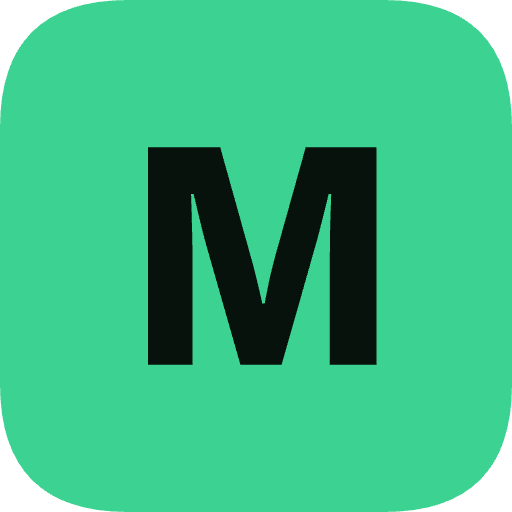
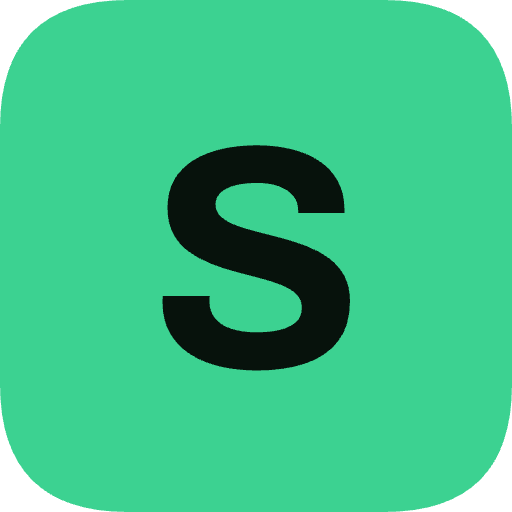
Rename the company to Synecura
Brand strings, the two-tone wordmark, the structured data and the whole icon
set. The lockup keeps its shape: Syne in ink, cura in brand green, one word
with no separator, plus the mint node, mirroring the old More and Chain split.
The footer follows as SYNE and CURA.

The monogram changes letter, so the icons are regenerated from the real
Archivo face and the SVG carries a freshly traced S. Tracing the boundary and
simplifying it gives 100 points from 2240, which renders identically to the
PNG and still needs no font present.

One artifact fixed while regenerating: the monogram canvas carried the
wordmark's -0.04em letter-spacing, and letter-spacing after a single centred
glyph shifts it by half that amount. The old M was 13px off centre in a 1024
box for exactly this reason. Spacing is now zero for the monogram, and the
traced S sits with its bounding box centred on 512.

Deliberately not renamed: the repository, the local directory and the Pages
URL, since changing those changes the live address. The reference prototype
filenames keep their names too, because those files exist under them.

Changed region(s): [[0.2812, 0.2812, 0.75, 0.75]]

diff --git a/index.html b/index.html
@@ -3,14 +3,14 @@
 <head>
 <meta charset="utf-8">
 <meta name="viewport" content="width=device-width, initial-scale=1, viewport-fit=cover">
-<title>MoreChain, systems that pay for themselves</title>
-<meta name="description" content="MoreChain builds custom operational systems for owner-run businesses and takes its fee out of the verified gain. Every system is built for one operation alone.">
+<title>Synecura, systems that pay for themselves</title>
+<meta name="description" content="Synecura builds custom operational systems for owner-run businesses and takes its fee out of the verified gain. Every system is built for one operation alone.">
 <link rel="canonical" href="https://liav-chanoch.github.io/morechain/">
 <meta name="color-scheme" content="dark">
 <meta name="theme-color" content="#070B0E">
 <meta property="og:type" content="website">
-<meta property="og:site_name" content="MoreChain">
-<meta property="og:title" content="MoreChain, systems that pay for themselves">
+<meta property="og:site_name" content="Synecura">
+<meta property="og:title" content="Synecura, systems that pay for themselves">
 <meta property="og:description" content="Every operation has headroom. We find where it sits, build the system that captures it, and take our fee out of the gain.">
 <meta property="og:url" content="https://liav-chanoch.github.io/morechain/">
 <meta property="og:image" content="https://liav-chanoch.github.io/morechain/assets/og.png">
@@ -653,8 +653,8 @@ h2 .dim{ color:var(--faint-2); }
 
 <canvas id="chain" aria-hidden="true"></canvas>
 
-<a class="chrome pill pill--logo" href="#p-0" data-go="0" aria-label="MoreChain, back to the top">
-  <span class="mark"><span class="mark__a">More</span><span class="mark__b">Chain</span><span class="mark__n"></span></span>
+<a class="chrome pill pill--logo" href="#p-0" data-go="0" aria-label="Synecura, back to the top">
+  <span class="mark"><span class="mark__a">Syne</span><span class="mark__b">cura</span><span class="mark__n"></span></span>
 </a>
 <a class="chrome pill pill--cta" href="#p-5" data-go="5">Book discovery</a>
 
@@ -848,13 +848,13 @@ h2 .dim{ color:var(--faint-2); }
             <p class="lead only-d">If we cannot point at a gain worth capturing, we will say so and you will have lost an afternoon. If we can, you will have a number, and a system scoped for your operation alone, before you have an invoice.</p>
           <p class="lead only-m">If we cannot point at a gain worth capturing, we will say so. If we can, you will have a number, and a system scoped for your operation alone, before you have an invoice.</p>
             <div style="display:flex;flex-direction:column;gap:12px;align-items:stretch">
-              <a class="cta cta--go cta--wide" href="mailto:hello@morechain.co">hello@morechain.co</a>
+              <a class="cta cta--go cta--wide" href="mailto:hello@synecura.co">hello@synecura.co</a>
               <a class="cta cta--wide" href="#" data-pending="linkedin">LinkedIn</a>
             </div>
           </div>
         </div>
         <div class="foot mono">
-          <span><span class="foot-mark"><span class="foot-mark__a">MORE</span><span class="foot-mark__b">CHAIN</span></span><span style="opacity:.45;padding:0 .7em">&#183;</span><span class="only-d">Systems that pay for themselves</span><span class="only-m">&#169; 2026</span></span>
+          <span><span class="foot-mark"><span class="foot-mark__a">SYNE</span><span class="foot-mark__b">CURA</span></span><span style="opacity:.45;padding:0 .7em">&#183;</span><span class="only-d">Systems that pay for themselves</span><span class="only-m">&#169; 2026</span></span>
           <span class="only-d">&#169; 2026</span>
         </div>
       </div>
@@ -887,13 +887,13 @@ h2 .dim{ color:var(--faint-2); }
 {
   "@context":"https://schema.org",
   "@type":"ProfessionalService",
-  "name":"MoreChain",
+  "name":"Synecura",
   "url":"https://liav-chanoch.github.io/morechain/",
-  "description":"MoreChain builds custom operational systems for owner-run businesses (automation, internal tools, process redesign) and prices itself as a share of the verified saving.",
+  "description":"Synecura builds custom operational systems for owner-run businesses (automation, internal tools, process redesign) and prices itself as a share of the verified saving.",
   "slogan":"Systems that pay for themselves",
   "serviceType":["Operations automation","Internal tools","Process redesign","Data and reporting"],
   "areaServed":"Worldwide",
-  "email":"hello@morechain.co",
+  "email":"hello@synecura.co",
   "offers":{
     "@type":"Offer",
     "name":"Discovery",

diff --git a/v2/index.html b/v2/index.html
@@ -3,14 +3,14 @@
 <head>
 <meta charset="utf-8">
 <meta name="viewport" content="width=device-width, initial-scale=1, viewport-fit=cover">
-<title>MoreChain, systems that pay for themselves</title>
-<meta name="description" content="MoreChain builds custom operational systems for owner-run businesses and takes its fee out of the verified gain. Every system is built for one operation alone.">
+<title>Synecura, systems that pay for themselves</title>
+<meta name="description" content="Synecura builds custom operational systems for owner-run businesses and takes its fee out of the verified gain. Every system is built for one operation alone.">
 <meta name="robots" content="noindex, nofollow">
 <meta name="color-scheme" content="dark">
 <meta name="theme-color" content="#070B0E">
 <meta property="og:type" content="website">
-<meta property="og:site_name" content="MoreChain">
-<meta property="og:title" content="MoreChain, systems that pay for themselves">
+<meta property="og:site_name" content="Synecura">
+<meta property="og:title" content="Synecura, systems that pay for themselves">
 <meta property="og:description" content="Every operation has headroom. We find where it sits, build the system that captures it, and take our fee out of the gain.">
 <meta property="og:url" content="https://liav-chanoch.github.io/morechain/">
 <meta property="og:image" content="https://liav-chanoch.github.io/morechain/assets/og.png">
@@ -653,8 +653,8 @@ h2 .dim{ color:var(--faint-2); }
 
 <canvas id="chain" aria-hidden="true"></canvas>
 
-<a class="chrome pill pill--logo" href="#p-0" data-go="0" aria-label="MoreChain, back to the top">
-  <span class="mark"><span class="mark__a">More</span><span class="mark__b">Chain</span><span class="mark__n"></span></span>
+<a class="chrome pill pill--logo" href="#p-0" data-go="0" aria-label="Synecura, back to the top">
+  <span class="mark"><span class="mark__a">Syne</span><span class="mark__b">cura</span><span class="mark__n"></span></span>
 </a>
 <a class="chrome pill pill--cta" href="#p-5" data-go="5">Book discovery</a>
 
@@ -848,13 +848,13 @@ h2 .dim{ color:var(--faint-2); }
             <p class="lead only-d">If we cannot point at a gain worth capturing, we will say so and you will have lost an afternoon. If we can, you will have a number, and a system scoped for your operation alone, before you have an invoice.</p>
           <p class="lead only-m">If we cannot point at a gain worth capturing, we will say so. If we can, you will have a number, and a system scoped for your operation alone, before you have an invoice.</p>
             <div style="display:flex;flex-direction:column;gap:12px;align-items:stretch">
-              <a class="cta cta--go cta--wide" href="mailto:hello@morechain.co">hello@morechain.co</a>
+              <a class="cta cta--go cta--wide" href="mailto:hello@synecura.co">hello@synecura.co</a>
               <a class="cta cta--wide" href="#" data-pending="linkedin">LinkedIn</a>
             </div>
           </div>
         </div>
         <div class="foot mono">
-          <span><span class="foot-mark"><span class="foot-mark__a">MORE</span><span class="foot-mark__b">CHAIN</span></span><span style="opacity:.45;padding:0 .7em">&#183;</span><span class="only-d">Systems that pay for themselves</span><span class="only-m">&#169; 2026</span></span>
+          <span><span class="foot-mark"><span class="foot-mark__a">SYNE</span><span class="foot-mark__b">CURA</span></span><span style="opacity:.45;padding:0 .7em">&#183;</span><span class="only-d">Systems that pay for themselves</span><span class="only-m">&#169; 2026</span></span>
           <span class="only-d">&#169; 2026</span>
         </div>
       </div>
@@ -887,13 +887,13 @@ h2 .dim{ color:var(--faint-2); }
 {
   "@context":"https://schema.org",
   "@type":"ProfessionalService",
-  "name":"MoreChain",
+  "name":"Synecura",
   "url":"https://liav-chanoch.github.io/morechain/",
-  "description":"MoreChain builds custom operational systems for owner-run businesses (automation, internal tools, process redesign) and prices itself as a share of the verified saving.",
+  "description":"Synecura builds custom operational systems for owner-run businesses (automation, internal tools, process redesign) and prices itself as a share of the verified saving.",
   "slogan":"Systems that pay for themselves",
   "serviceType":["Operations automation","Internal tools","Process redesign","Data and reporting"],
   "areaServed":"Worldwide",
-  "email":"hello@morechain.co",
+  "email":"hello@synecura.co",
   "offers":{
     "@type":"Offer",
     "name":"Discovery",

diff --git a/README.md b/README.md
@@ -1,6 +1,6 @@
-# MoreChain
+# Synecura
 
-Marketing site for **MoreChain**, which builds custom operational systems
+Marketing site for **Synecura**, which builds custom operational systems
 (automation, internal tools, process redesign) for owner-run businesses and
 prices itself as a share of the verified gain.
 
